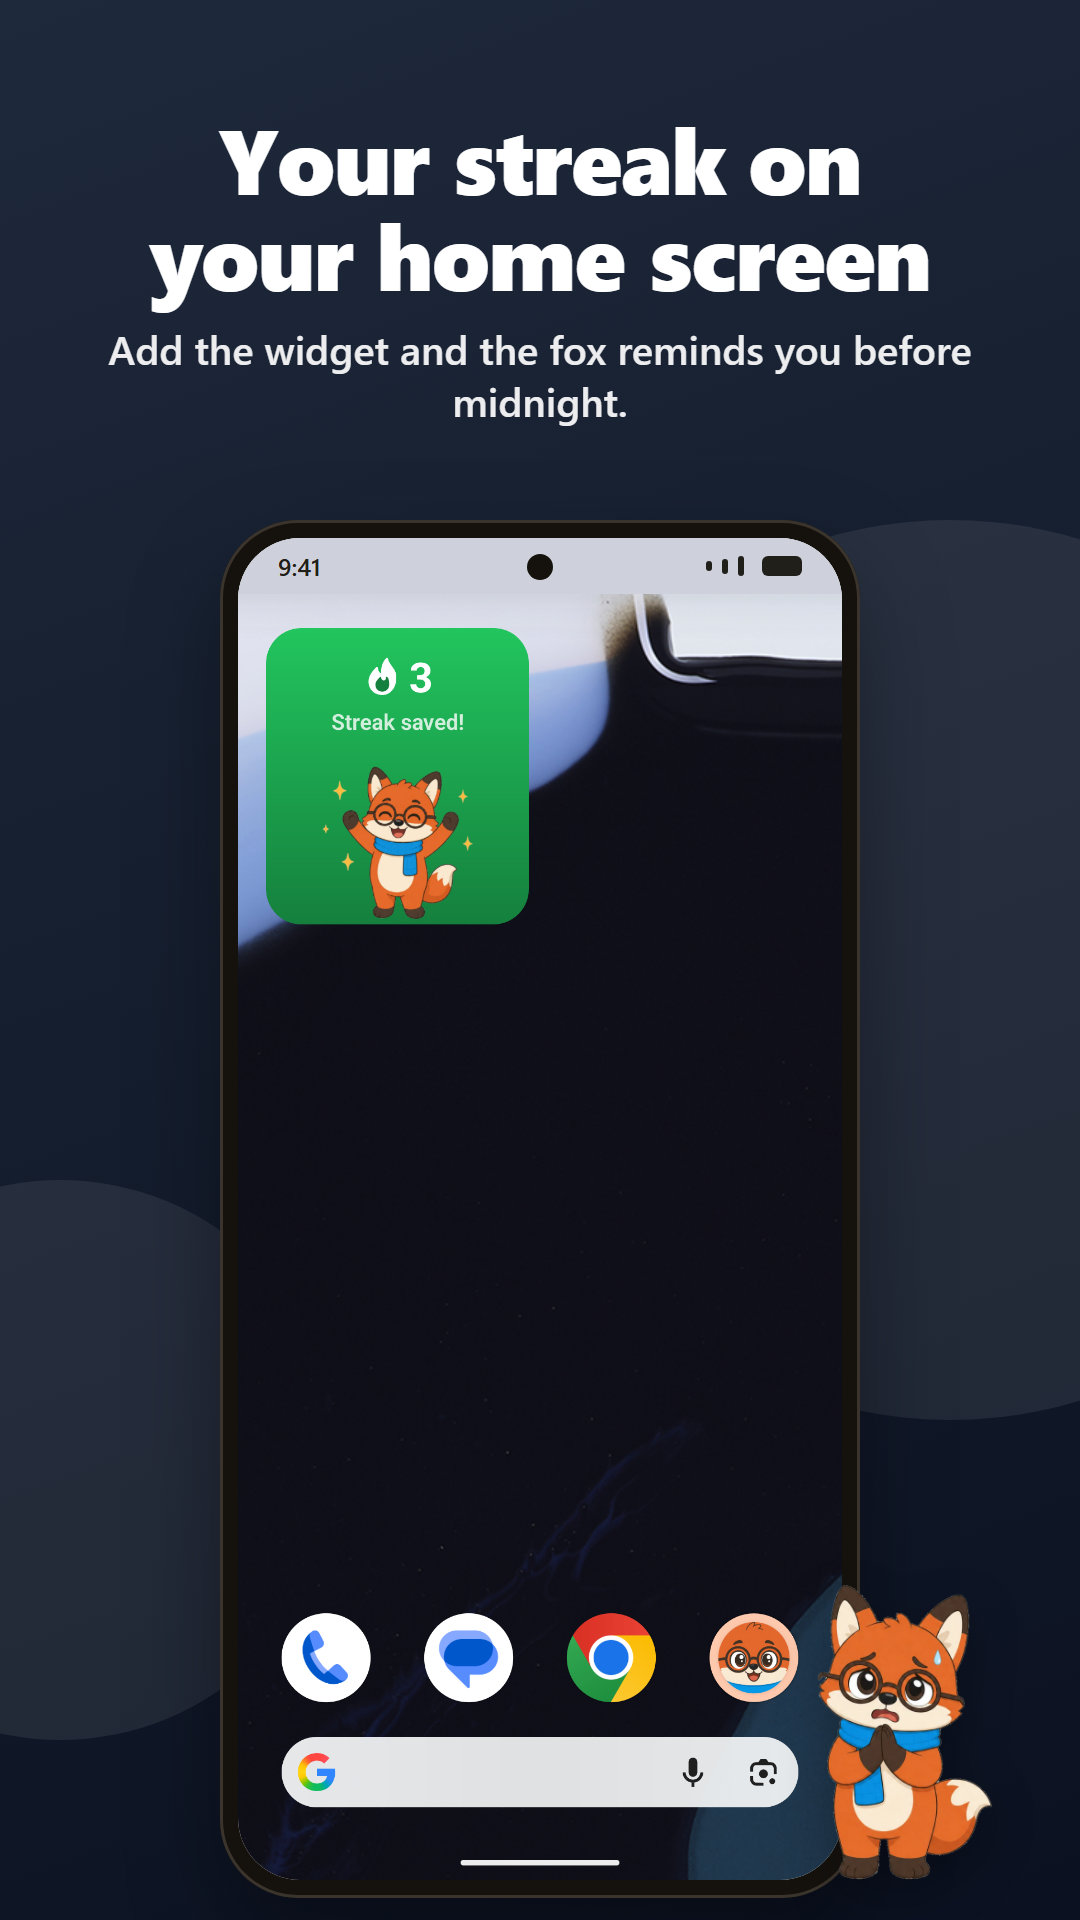
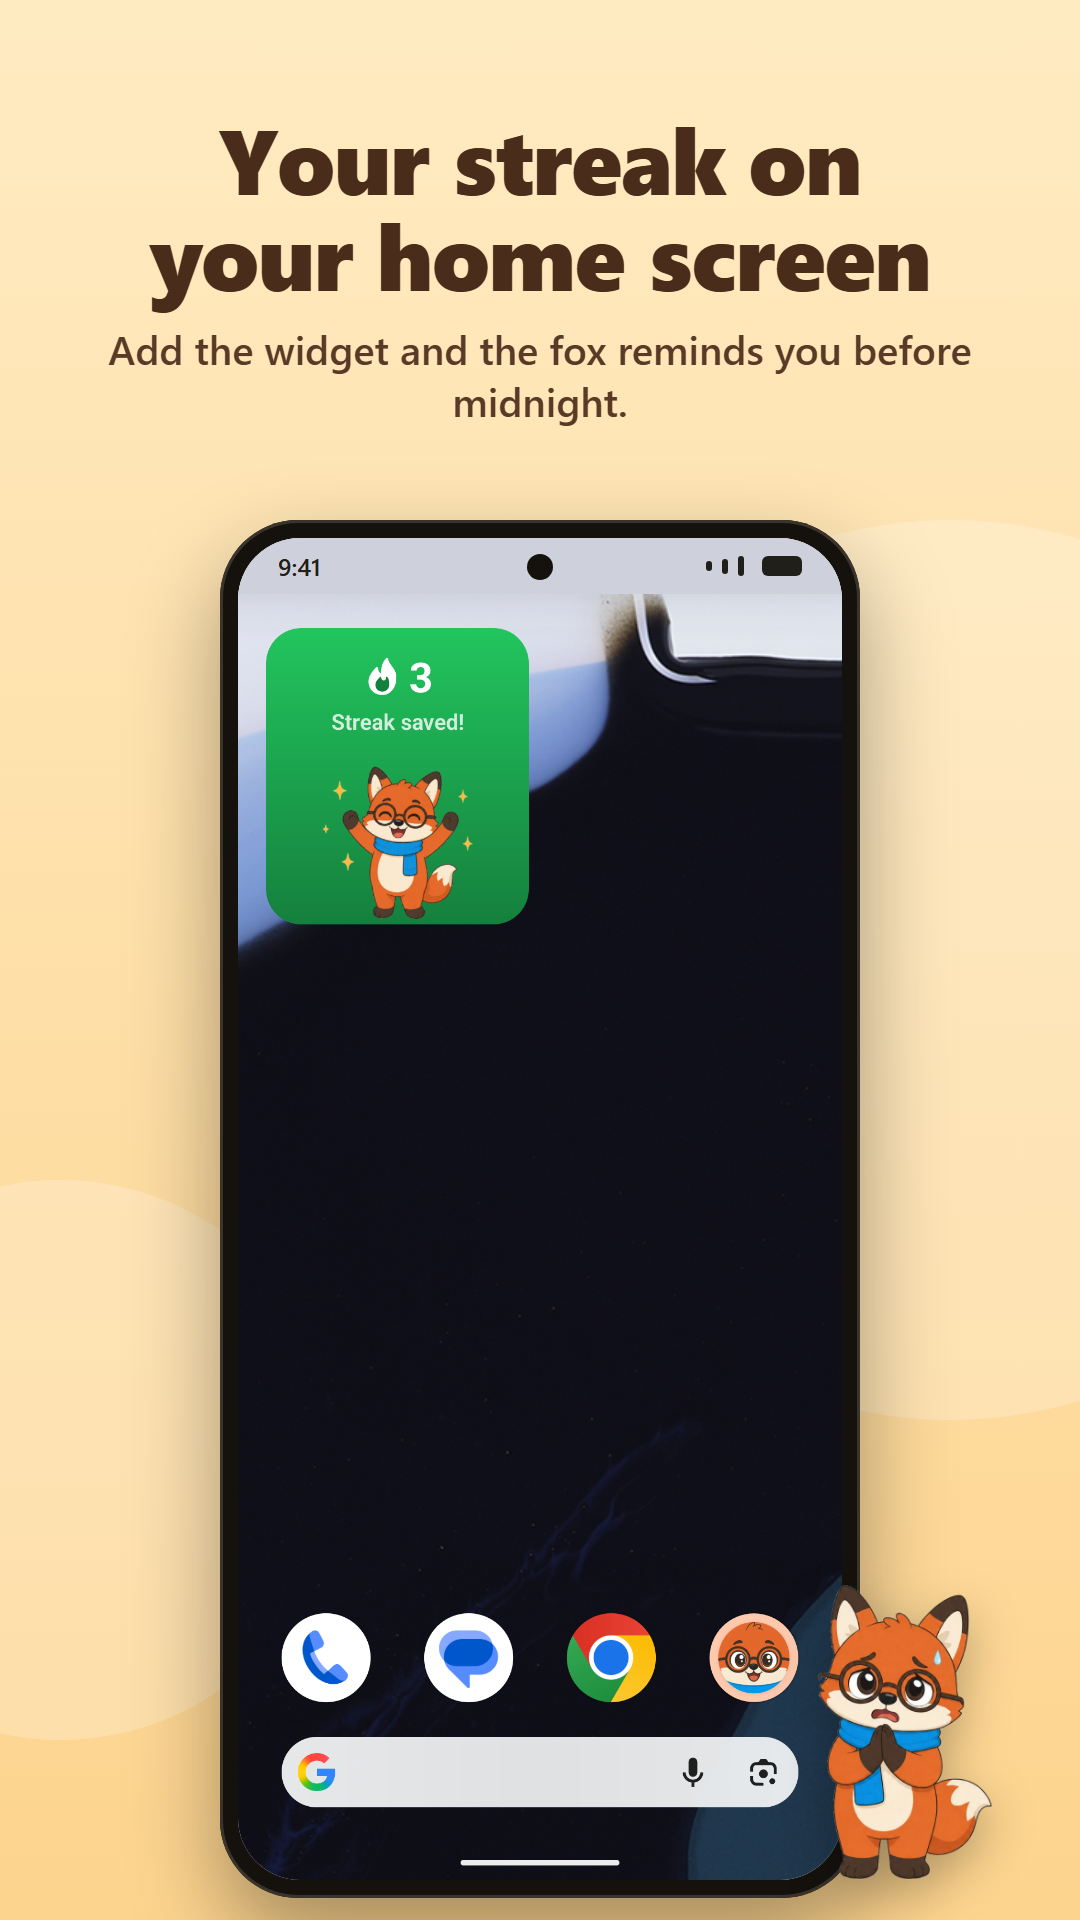
Store screenshots: shop scene, and all six slides in the warm Phoxy palette

diff --git a/store/screenshots.html b/store/screenshots.html
@@ -36,7 +36,7 @@
     content: '';
     position: absolute;
     border-radius: 50%;
-    background: rgba(255, 255, 255, 0.08);
+    background: rgba(255, 255, 255, 0.22);
   }
   .dia::before { width: 900px; height: 900px; right: -320px; top: 520px; }
   .dia::after { width: 560px; height: 560px; left: -220px; top: 1180px; }
@@ -142,7 +142,7 @@
     {
       kop: 'Stories that read<br>like a novel',
       sub: 'Short chapters with an illustrated scene to open each one.',
-      van: '#E8743B', naar: '#9A3412',
+      van: '#FFEBC2', naar: '#FDD48E', tekst: '#4A2C1A',
       scherm: 'reader.png', vos: 'fase-2-ochtend.png', kant: 'rechts', spiegel: true,
     },
     {
@@ -156,7 +156,7 @@
     {
       kop: 'Your streak on<br>your home screen',
       sub: 'Add the widget and the fox reminds you before midnight.',
-      van: '#1E293B', naar: '#0B1120',
+      van: '#FFEBC2', naar: '#FDD48E', tekst: '#4A2C1A',
       scherm: 'homescreen.png', statusbalk: '#CED1DB', vos: 'fase-4-avond.png', kant: 'rechts', spiegel: true,
     },
     {
@@ -164,11 +164,13 @@
       sub: 'Read to earn coins and buy a streak freeze for busy days.',
       van: '#38BDF8', naar: '#1D4ED8',
       scherm: 'shop.png', vos: 'fase-8-ijs.png', kant: 'links',
+      // Telefoon links-midden, vos op het ijsblok rechts: zo vallen allebei binnen de 1080 px.
+      scene: 'scenes/klaar/scene-3-shop.png', achtergrond: '#FFEBC2', tekst: '#4A2C1A', sceneLinks: -550,
     },
     {
       kop: 'Unlock chapter<br>after chapter',
       sub: 'Finish a story to add its hero to your collection.',
-      van: '#B45309', naar: '#78350F',
+      van: '#FFEBC2', naar: '#FDD48E', tekst: '#4A2C1A',
       scherm: 'hoofdstukken.png', vos: 'zwaaiend.png', kant: 'rechts', spiegel: true,
     },
   ];
@@ -176,7 +178,9 @@
   const n = Math.min(DIAS.length, Math.max(1, Number(new URLSearchParams(location.search).get('n')) || 1));
   const d = DIAS[n - 1];
   const dia = document.getElementById('dia');
-  dia.style.background = `linear-gradient(160deg, ${d.van} 0%, ${d.naar} 100%)`;
+  // Alle dia's in het warme verloop van de Higgsfield-scènes (Phoxy-stijl), met donkerbruine koppen.
+  dia.style.background = `linear-gradient(180deg, ${d.van} 0%, ${d.naar} 100%)`;
+  if (d.tekst) dia.style.color = d.tekst;
   if (d.statusbalk) dia.style.setProperty('--statusbalk', d.statusbalk);
 
   const statusKleur = '#211F1A';
